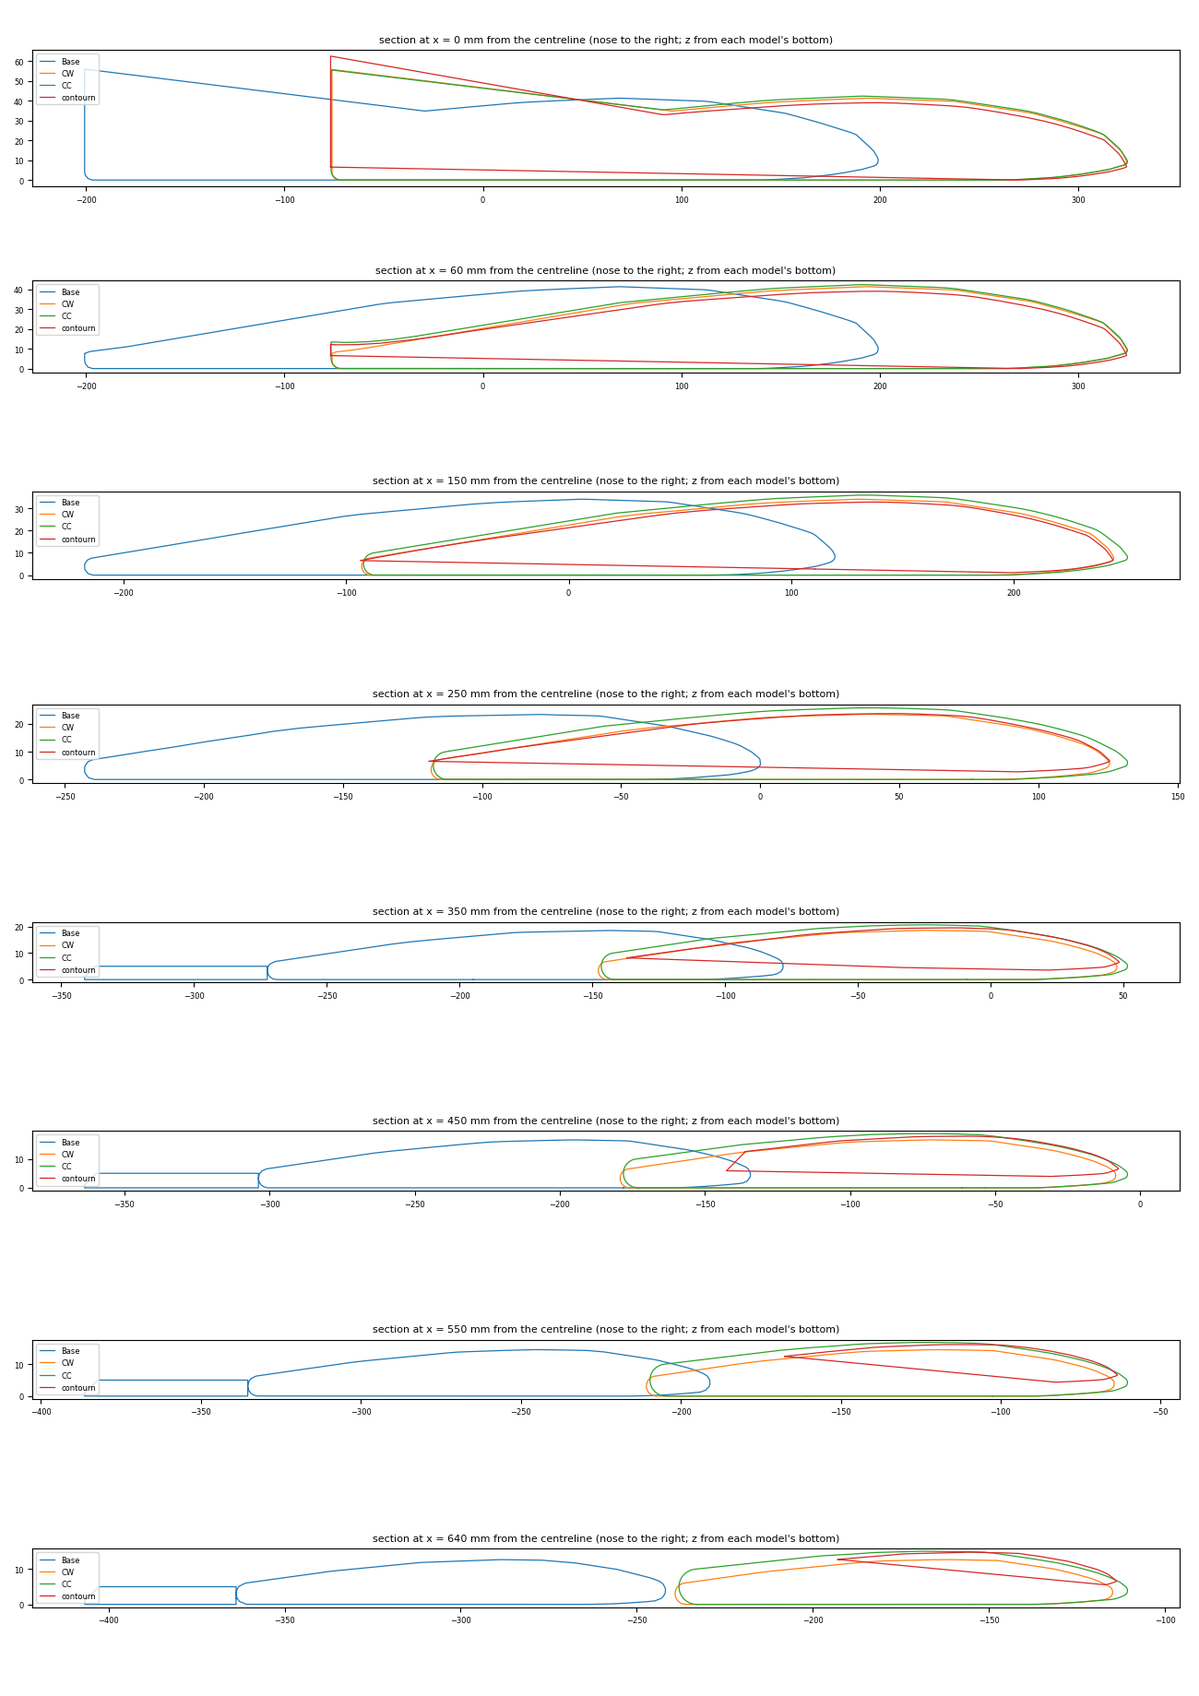
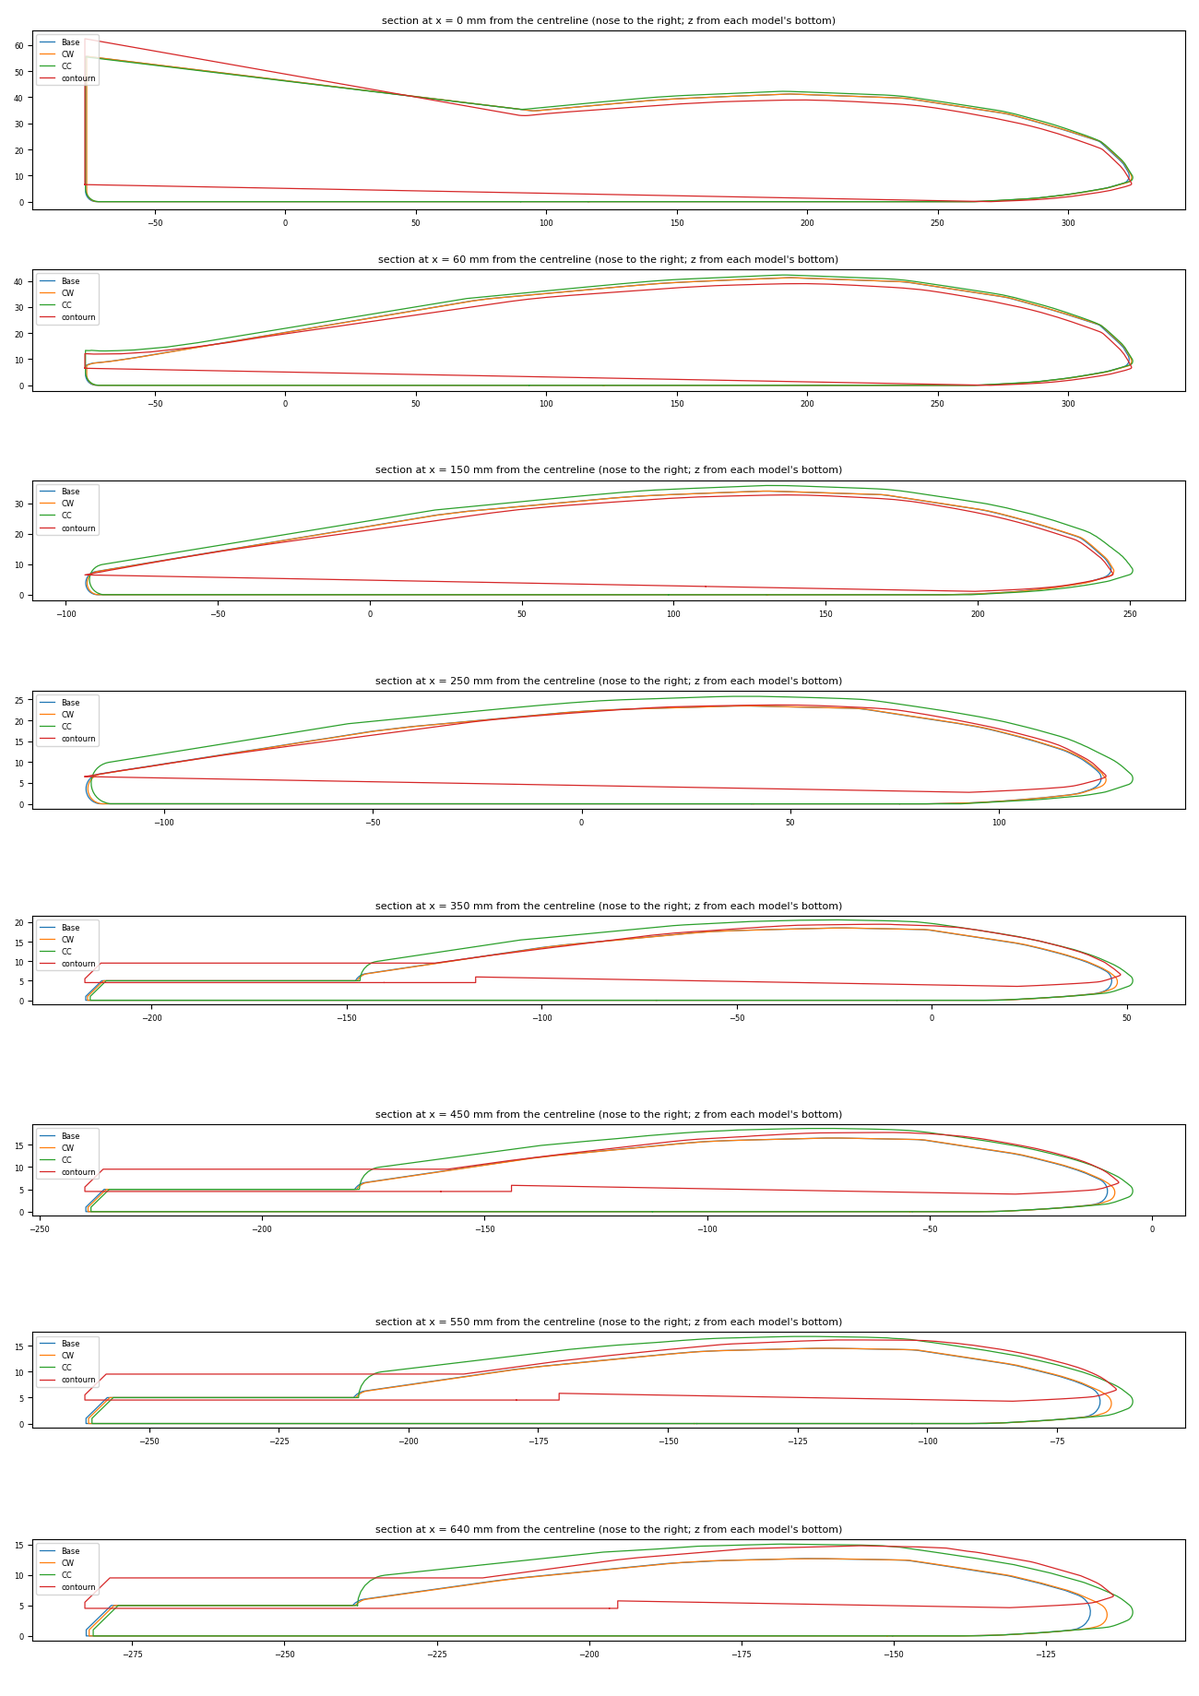
Se repararon y alinearon los STP y se generaron STL finos para CFD
- Elevones verificados: un solo cuerpo en los 9 modelos; los 9 STL limpios
  (contourn y Base re-exportados bien). STP de CC y contourn validos.
- Base, CW, RT y RT+CW: una cara invalida en la superficie superior interna
  del ala (no el aleron); reparada por script con fix() (<1.1 cm3).
- STP/fixed/: los 9 STP reparados y en el datum comun (origen en la nariz,
  X hacia atras, Y envergadura, Z arriba, mm; CC centrados, sin el offset de 5 mm).
- STL/cfd/: STL finos y cerrados (0.02 mm, 290k-450k triangulos) para OpenFOAM.
- Nuevos scripts: step_check.py, step_fix_align.py, stl
- AERO_REPORT.md: secciones 4.7 y 4.8, Paso 1 actualizado; figuras regeneradas.
- Pendiente: winglet de RT+CW (87 mm) y datos de motor/

It covers everything uncommitted:
- analysis/AERO_REPORT.md
- the regenerated figures in analysis/figures/
- the 3 new scripts in analysis/scripts/
- STP/fixed/ and STL/cfd/

diff --git a/analysis/scripts/stl_close_holes.py b/analysis/scripts/stl_close_holes.py
@@ -1,0 +1,101 @@
+"""Close small holes in binary STLs (in place) by fan-filling each boundary loop.
+
+OpenCASCADE leaves a few sub-millimetre gaps where it tessellates the tiny fillet
+faces at the winglet root, so some files written by step_fix_align.py aren't
+watertight. Each open loop is filled with a fan of triangles around its centroid,
+oriented to match the surrounding surface.
+
+    python3 analysis/scripts/stl_close_holes.py STL/cfd/*.stl
+"""
+import sys
+from collections import Counter, defaultdict
+
+import numpy as np
+
+DTYPE = np.dtype([("n", "<f4", (3,)), ("v", "<f4", (3, 3)), ("a", "<u2")])
+
+
+def read(path):
+    data = open(path, "rb").read()
+    n = int(np.frombuffer(data, "<u4", 1, 80)[0])
+    tri = np.frombuffer(data, DTYPE, n, 84)
+    P, inv = np.unique(tri["v"].reshape(-1, 3), axis=0, return_inverse=True)
+    return P.astype(np.float64), inv.reshape(-1, 3)
+
+
+def write(path, P, F):
+    v = P[F]
+    nrm = np.cross(v[:, 1] - v[:, 0], v[:, 2] - v[:, 0])
+    nrm /= np.maximum(np.linalg.norm(nrm, axis=1, keepdims=True), 1e-30)
+    out = np.zeros(len(F), DTYPE)
+    out["n"], out["v"] = nrm, v
+    with open(path, "wb") as f:
+        f.write(b"Berkirk CFD surface, mm".ljust(80, b"\0"))
+        f.write(np.uint32(len(F)).tobytes())
+        f.write(out.tobytes())
+
+
+def directed_edges(F):
+    return np.concatenate([F[:, [0, 1]], F[:, [1, 2]], F[:, [2, 0]]])
+
+
+def check(F):
+    """Return (open edges, edges used >2 times, edges with the same direction twice)."""
+    E = directed_edges(F)
+    und = Counter(map(tuple, np.sort(E, axis=1)))
+    dirc = Counter(map(tuple, E))
+    return (sum(1 for c in und.values() if c == 1), sum(1 for c in und.values() if c > 2),
+            sum(1 for c in dirc.values() if c > 1))
+
+
+def volume(P, F):
+    v = P[F]
+    return np.einsum("ij,ij->i", v[:, 0], np.cross(v[:, 1], v[:, 2])).sum() / 6.0
+
+
+for path in sys.argv[1:]:
+    P, F = read(path)
+    E = directed_edges(F)
+    und = Counter(map(tuple, np.sort(E, axis=1)))
+    # boundary edges, kept in the direction their face uses them
+    nxt = defaultdict(list)
+    for a, b in E:
+        if und[(min(a, b), max(a, b))] == 1:
+            nxt[a].append(b)
+    if not nxt:
+        print(f"{path}: already closed, {len(F)} triangles")
+        continue
+    loops, used = [], set()
+    for start in list(nxt):
+        for b0 in nxt[start]:
+            if (start, b0) in used:
+                continue
+            loop, a, b = [start], start, b0
+            while True:
+                used.add((a, b))
+                if b == start:
+                    break
+                loop.append(b)
+                cand = [c for c in nxt[b] if (b, c) not in used]
+                if not cand:
+                    loop = None
+                    break
+                a, b = b, cand[0]
+            if loop:
+                loops.append(loop)
+    v0 = volume(P, F)
+    newP, newF = [P], [F]
+    nP = len(P)
+    for loop in loops:
+        c = P[loop].mean(axis=0)
+        newP.append(c[None])
+        ring = loop + [loop[0]]
+        # boundary edge a->b belongs to a face; the fill face must use b->a
+        newF.append(np.array([[ring[i + 1], ring[i], nP] for i in range(len(loop))]))
+        nP += 1
+    P2, F2 = np.vstack(newP), np.vstack(newF)
+    open_e, nonman, flipped = check(F2)
+    write(path, P2, F2)
+    print(f"{path}: {len(loops)} loops ({sum(map(len, loops))} edges) filled; "
+          f"open {open_e}, non-manifold {nonman}, flipped {flipped}; "
+          f"volume {v0 / 1e6:.4f} -> {volume(P2, F2) / 1e6:.4f} L; {len(F2)} triangles")

diff --git a/analysis/scripts/step_fix_align.py b/analysis/scripts/step_fix_align.py
@@ -1,0 +1,83 @@
+"""Repair, align and finely tessellate the STEP files in STP/ with FreeCAD (OpenCASCADE).
+
+For each STP/<model>.stp:
+  1. Repair it with shape.fix() if it is not a valid solid.
+  2. Move it to the common datum: origin at the nose (most forward point of the
+     symmetry plane, i.e. the root LE), X aft, Y along the span, Z up. The
+     symmetry plane is taken as the middle of the spanwise bounding box, which
+     also removes the 5 mm sideways offset of the CC models.
+  3. Write STP/fixed/<model>.stp (AP214, mm) and a fine binary STL for CFD,
+     STL/cfd/<model>.stl (mm, same datum).
+
+Inventor's exports use X = span, Y = forward, Z = up, so the rotation is +90 deg
+about Z: new X = -old Y, new Y = old X.
+
+Run (FreeCAD snap, which can only read and write under $HOME):
+    cp analysis/scripts/step_fix_align.py ~/snap/freecad/common/
+    freecad.cmd ~/snap/freecad/common/step_fix_align.py $PWD
+"""
+import glob
+import os
+import sys
+
+import FreeCAD as App
+import Mesh
+import MeshPart
+import Part
+
+LINEAR_DEFLECTION = 0.02            # mm, max chordal error of the CFD STL
+ANGULAR_DEFLECTION = 0.0873         # rad (5 deg) between neighbouring facets
+
+args = [a for a in sys.argv[1:] if os.path.isdir(a)]
+repo = args[-1] if args else os.getcwd()
+stp_out = os.path.join(repo, "STP", "fixed")
+stl_out = os.path.join(repo, "STL", "cfd")
+os.makedirs(stp_out, exist_ok=True)
+os.makedirs(stl_out, exist_ok=True)
+
+
+def nose_point(shape, x_sym):
+    """Most forward (max Y) point of the section at the symmetry plane."""
+    best = None
+    for edge in shape.slice(App.Vector(1, 0, 0), x_sym):
+        for p in edge.discretize(Deflection=0.005):
+            if best is None or p.y > best.y:
+                best = p
+    return best
+
+
+print("| Model | Valid as exported | Repaired | dV repair [cm³] | Span offset [mm] | Nose (old y, z) [mm] | "
+      "x aft [mm] | y span [mm] | z [mm] | Valid after | CFD STL triangles | STL solid / non-manifold / bad orientation | STL volume [L] |")
+print("|---|---|---|---|---|---|---|---|---|---|---|---|---|")
+for path in sorted(glob.glob(os.path.join(repo, "STP", "*.stp"))):
+    name = os.path.splitext(os.path.basename(path))[0]
+    shape = Part.Shape()
+    shape.read(path)
+    valid0 = shape.isValid()
+    dv = 0.0
+    if not valid0:
+        v0 = shape.Volume
+        shape.fix(1e-4, 1e-4, 1e-3)
+        dv = (shape.Volume - v0) / 1e3
+    solid = shape.Solids[0] if len(shape.Solids) == 1 else shape
+
+    bb = solid.BoundBox
+    x_sym = 0.5 * (bb.XMin + bb.XMax)
+    nose = nose_point(solid, x_sym)
+
+    aligned = solid.copy()
+    aligned.translate(App.Vector(-x_sym, -nose.y, -nose.z))
+    aligned.rotate(App.Vector(0, 0, 0), App.Vector(0, 0, 1), 90)
+    nb = aligned.BoundBox
+
+    aligned.exportStep(os.path.join(stp_out, name + ".stp"))
+    mesh = MeshPart.meshFromShape(Shape=aligned, LinearDeflection=LINEAR_DEFLECTION,
+                                  AngularDeflection=ANGULAR_DEFLECTION, Relative=False)
+    mesh.write(os.path.join(stl_out, name + ".stl"))
+
+    print(f"| {name} | {'yes' if valid0 else 'no'} | {'–' if valid0 else 'fix()'} | {dv:+.2f} | "
+          f"{x_sym:+.2f} | {nose.y:.2f}, {nose.z:.2f} | {nb.XMin:.1f} … {nb.XMax:.1f} | "
+          f"{nb.YMin:.1f} … {nb.YMax:.1f} | {nb.ZMin:.1f} … {nb.ZMax:.1f} | "
+          f"{'yes' if aligned.isValid() else '**no**'} | {mesh.CountFacets} | "
+          f"{mesh.isSolid()} / {mesh.hasNonManifolds()} / {mesh.countNonUniformOrientedFacets()} | "
+          f"{mesh.Volume / 1e6:.3f} |")

diff --git a/analysis/scripts/step_check.py b/analysis/scripts/step_check.py
@@ -1,0 +1,42 @@
+"""Check the STEP files in STP/ with FreeCAD (OpenCASCADE).
+
+For each file: solid count, validity (and validity after fix()), volume, area,
+tight bounding box and the root-LE / tail / bottom datum.
+
+Run (FreeCAD snap):
+    cp analysis/scripts/step_check.py ~/snap/freecad/common/
+    freecad.cmd ~/snap/freecad/common/step_check.py <repo>/STP
+The snap can only read files under $HOME, so pass the absolute STP path.
+"""
+import glob
+import os
+import sys
+
+import Part
+
+stp_dir = [a for a in sys.argv[1:] if a.endswith("STP") or os.path.isdir(a)]
+stp_dir = stp_dir[-1] if stp_dir else os.path.join(os.getcwd(), "STP")
+
+print("| File | Solids | Shells | Valid | Valid after fix() | Volume [L] | Area [dm²] | "
+      "x span [mm] | y nose / tail [mm] | z min / max [mm] |")
+print("|---|---|---|---|---|---|---|---|---|---|")
+for path in sorted(glob.glob(os.path.join(stp_dir, "*.stp"))):
+    name = os.path.splitext(os.path.basename(path))[0]
+    shape = Part.Shape()
+    shape.read(path)
+    valid = shape.isValid()
+    fixed = "–"
+    if not valid:
+        s2 = shape.copy()
+        s2.fix(1e-4, 1e-4, 1e-3)
+        fixed = "yes" if s2.isValid() else "**no**"
+    bb = shape.BoundBox
+    # tight bounding box (optimal)
+    try:
+        bb = shape.optimalBoundingBox()
+    except Exception:
+        pass
+    print(f"| {name} | {len(shape.Solids)} | {len(shape.Shells)} | "
+          f"{'yes' if valid else '**no**'} | {fixed} | {shape.Volume / 1e6:.2f} | "
+          f"{shape.Area / 1e4:.2f} | {bb.XMin:.1f} … {bb.XMax:.1f} | "
+          f"{bb.YMax:.1f} / {bb.YMin:.1f} | {bb.ZMin:.1f} / {bb.ZMax:.1f} |")

diff --git a/analysis/AERO_REPORT.md b/analysis/AERO_REPORT.md
@@ -3,9 +3,9 @@
 | | |
 |---|---|
 | Date | 2026-10-13, updated 2026-10-15 |
-| Status | Elevons added and STL + STEP files re-exported (commit `1deeefd`). New geometry checked on 2026-10-15 (§4.6). **No aerodynamic test has been run yet.** |
-| Next action | Designer: finish Step 1. Fix the elevon joint so the STEP solids are valid, re-export the `contourn` and Base STLs, decide on the RT+CW winglet, and give the motor and mass data. Claude: then Step 3. |
-| Re-run the measurements | `python3 analysis/scripts/stl_geometry.py` |
+| Status | Elevon joint fixed and all files re-exported (commit `1a596ae`), checked on 2026-10-15 (§4.7): one fused body per model, all 9 STLs clean, CC and `contourn` STEPs valid. Script fixes (§4.8): all 9 STEPs repaired and moved to the common datum in `STP/fixed/`, and watertight fine CFD STLs in `STL/cfd/`. **No aerodynamic test has been run yet.** |
+| Next action | Designer: decide on the RT+CW winglet and give the motor and mass data. Optional: repair the inboard upper-surface face of the 4 non-CC models in Inventor (§4.7). Claude: then Step 3, using `STP/fixed/` and `STL/cfd/`. |
+| Re-run the measurements | `python3 analysis/scripts/stl_geometry.py`; STEP check: copy `analysis/scripts/step_check.py` to `~/snap/freecad/common/` and run `freecad.cmd ~/snap/freecad/common/step_check.py $PWD/STP`. Rebuild `STP/fixed/` + `STL/cfd/`: same with `step_fix_align.py $PWD`, then `python3 analysis/scripts/stl_close_holes.py STL/cfd/*.stl` |
 
 ---
 
@@ -254,7 +254,7 @@ The STLs were measured with `analysis/scripts/stl_geometry.py`, which now also p
 | CC+RT+CW | 36.50 | 1346 | 4.96 | 292.4 | 283 | 192 / 265 | 79.17 | 7.46 | 95.3 |
 | contourn | 36.08 | 1336 | 4.95 | 291.0 | 281 | 194 / 267 | 78.55 | 5.72* | 95.3 |
 
-\* The `contourn` STL is faulty (see below). Its volume from the STEP file is 5.91 L.
+\* The `contourn` STL is faulty (see below). *Correction (§4.7): the 5.91 L once quoted from the STEP file came from OpenCASCADE's volume integration, which is off by 2–4% on these files; a fine tessellation of the STEP gives 5.79 L.*
 
 - Chord including the elevon: ≈ 229 mm at the kink and ≈ 160 mm at the tip (was 211 / 121 mm).
 - The original's flight-tested CG (260 mm behind the leading edge) is now **≈ 7 mm ahead of the 25% MAC point** (≈ 267 mm). That is plausible for a swept wing, whose neutral point lies aft of the 25% MAC. Step 3 will give the real margin.
@@ -303,6 +303,68 @@ The STLs were measured with `analysis/scripts/stl_geometry.py`, which now also p
 - **RT+CW winglets are still 87 mm** (and their tip extends ≈ 5 mm further aft in the STEP). The other 7 Siloute models have 95 mm.
 - **The tessellation is still coarse for CFD.** No `STL/cfd/` export yet; see Step 1.
 
+### 4.7 Elevon joint fix (commit `1a596ae`, checked 2026-10-15)
+
+Checked with `analysis/scripts/stl_geometry.py` and `analysis/scripts/step_check.py` (FreeCAD 1.1).
+
+**Elevon joint: fixed.**
+- In all 9 models the elevon is now fused into the wing: slices give one closed loop over the full chord, so the elevon table of the script shows "–" (not separable). The chords at the kink and tip, S, MAC and wetted area are unchanged from §4.6.
+
+**STLs: all 9 are clean.**
+
+| Model | Triangles | Open / non-manifold / flipped / degenerate | Facet angle p90 / p99 [deg] |
+|---|---|---|---|
+| Base | 19 464 (was 5 090) | 0 / 0 / 0 / 0 | 10.7 / 49.0 |
+| CW, RT, RT+CW | 19–21 k | 0 / 0 / 0 / 0 | ≈ 10.6 / 29–34 |
+| CC, CC+CW, CC+RT, CC+RT+CW | 33.5–35.6 k | 0 / 0 / 0 / 0 (were 13 / 26) | 8.9 / 15.2–15.5 |
+| contourn | 9 114 | 0 / 0 / 0 / 0 | 11.4 / 90.0 (flat TE cut, not a fault) |
+
+- **`contourn` STL fixed:** the outboard sections are now clean (chord 266 → 169 mm from x = 350 to 640 mm including the elevon, t/c ≈ 5.8%), and its volume (5.787 L) matches a fine tessellation of its STEP (5.788 L).
+- The tessellation is still the default one (max edge ≈ 480–530 mm); the finer `STL/cfd/` export is still needed for CFD.
+
+**STEP files: CC and `contourn` are valid; the 4 non-CC models have one bad face per side, not at the elevon.**
+
+| File | Valid in OpenCASCADE | Valid after `fix()` | Notes |
+|---|---|---|---|
+| CC, CC+CW, CC+RT, CC+RT+CW | **yes** (were invalid even after `fix()`) | – | |
+| contourn | yes | – | z min = −6.5 mm (its origin is not at the bottom) |
+| Base, CW, RT, RT+CW | no: self-intersecting wire, unorientable shape | yes (volume change ≤ 1.1 cm³, 0.02%) | |
+
+- **Where:** the same B-spline face on each side, the **inboard upper wing surface** between the centre body and the kink (span x = 82–284 mm, z = 7–32 mm, 191 cm²). It isn't the elevon, which starts at the kink. The 4 CC models build that region differently and don't have it. The fault was already there before the joint fix (same error in §4.6), hidden behind the elevon error.
+- **Impact:** low. OpenCASCADE's `fix()` repairs it with a negligible change, so Claude can repair the STEPs by script before Flow5/meshing. To fix it at the source, rebuild that loft or boundary patch in Inventor (e.g. check its rails for a twisted or self-crossing edge).
+- The strict BOP check also lists C0-continuity and curve-on-surface tolerance warnings in all files. These are normal for Inventor exports and don't make the solid invalid.
+- **Volume:** OpenCASCADE's `shape.Volume` is off by 2–4% on these files. Use the STL volumes (§4.6), which match fine tessellations of the STEPs to within 0.1%.
+
+**Unchanged (still open)**
+- **Datum:** the STEPs have the same origins as in §4.6 (root LE at y ≈ 199–201 mm, CC models offset −5 mm in span x), and the STLs still have the old origins (nose y = 323–326 mm, bottom z = 0 / 10 / 12 mm).
+- **RT+CW winglet: still 87.1 mm** (the others are 95.2–95.3 mm).
+
+### 4.8 Fixes done by script (2026-10-15)
+
+Two scripts turn the designer's STEP files into analysis-ready geometry, without touching `STP/*.stp` or `STL/*.stl`:
+
+1. `analysis/scripts/step_fix_align.py` (FreeCAD). For each `STP/<model>.stp` it:
+   - repairs the solid with OpenCASCADE `fix()` if it is invalid (Base, CW, RT, RT+CW; volume change ≤ +1.1 cm³);
+   - moves it to the **common datum**: origin at the nose (the most forward point of the symmetry plane = root LE), **X aft, Y along the span, Z up**, all in mm. The symmetry plane is the middle of the spanwise bounding box, which removes the 5 mm offset of the CC models;
+   - writes `STP/fixed/<model>.stp` (valid solid) and a fine binary STL `STL/cfd/<model>.stl` (chordal error 0.02 mm, 5° between neighbouring facets).
+2. `analysis/scripts/stl_close_holes.py` closes the few sub-millimetre gaps that OpenCASCADE leaves at the small fillet faces where the winglet meets the trailing edge (Base, RT: 5 loops, 104 edges; RT+CW: 2 loops, 30 edges). It fills each loop with a fan of triangles, in place.
+
+**Result**
+
+| Model | Repaired | Span shift [mm] | Nose before (y, z) [mm] | x [mm] | y [mm] | z [mm] | CFD STL triangles | Size [MB] |
+|---|---|---|---|---|---|---|---|---|
+| Base | fix() | 0 | 199.2, 9.8 | 0 … 648.1 | ±668.0 | −9.8 … 85.4 | 289 806 | 14.5 |
+| CW | fix() | 0 | 199.7, 9.4 | 0 … 649.5 | ±668.0 | −9.4 … 85.9 | 450 994 | 22.5 |
+| RT | fix() | 0 | 199.2, 9.8 | 0 … 648.1 | ±668.0 | −9.8 … 85.4 | 287 896 | 14.4 |
+| RT+CW | fix() | 0 | 199.2, 9.8 | 0 … 653.4 | ±668.0 | −9.8 … 77.3 | 316 626 | 15.8 |
+| CC (all 4) | – | +5.0 | 200.6, 9.2 | 0 … 649.5–650.4 | ±673.0 | −9.2 … 86.1 | 439–453 k | 22.0–22.7 |
+| contourn | – | 0 | 200.4, 0.3 | 0 … 648.9 | ±668.0 | −6.8 … 93.1 | 305 384 | 15.3 |
+
+- All 9 `STP/fixed/` solids are valid. All 9 `STL/cfd/` files are closed, manifold and consistently oriented, and their volumes are within 0.2% of the designer's STLs.
+- **Note:** the nose sits 6–10 mm above the lowest point of the wing, so the bottom is at z ≈ −6.8 to −9.8 mm in the new datum.
+- `stl_geometry.py` still reads the designer's `STL/*.stl`, which use the old axes, so its tables stay comparable with §4.2–4.7.
+- **Not fixable by script:** the RT+CW winglet height (87 vs 95 mm) is a design change and must be done in Inventor. A per-part split of the CFD STL (body, wings, winglets, elevons) also needs Inventor, or can be done later by cutting the mesh with planes.
+
 ---
 
 ## 5. Step-by-step plan
@@ -341,13 +403,14 @@ Decisions of 2026-10-14 (selection phase only):
 Checklist:
 - [ ] **Winglets / ChangedWings:** confirm or fix the RT+CW winglet height (87 vs 95 mm), so each change is identical in every combination. *Still 87 mm on 2026-10-15.*
 - [x] **Elevons added to all 9 models** (2026-10-15, commit `1deeefd`): 5 mm plate, ≈ 72 → 42 mm chord, kink to tip, 4.15 dm² per pair (§4.6).
-  - [ ] **Fix the joint:** the flat elevon touches the rounded trailing edge only along a line, so the STEP solid is invalid. Overlap 2–3 mm and *Join* (or match the trailing-edge shape), then re-export (§4.6).
-- [ ] **Common datum:** root LE = (0, 0, 0) in all models.
+  - [x] **Fix the joint** (2026-10-15, commit `1a596ae`): elevon overlapped and joined; one fused body in all 9 (§4.7).
+  - [ ] *Optional:* repair the invalid inboard upper-surface face of Base, CW, RT, RT+CW (not the elevon; `fix()` repairs it by script, §4.7).
+- [x] **Common datum:** root LE = (0, 0, 0) in all models. *Done by script on 2026-10-15 for the analysis files (`STP/fixed/`, `STL/cfd/`; X aft, Y span, Z up; §4.8). The Inventor parts still have their own origins.*
   - *2026-10-15:* the STEP files are nearly common (root LE at y ≈ 199–201 mm, bottom z = 0, CC models offset 5 mm sideways), but the STLs (except Base) still use the old origins.
   - Re-export the STLs after setting the origin, so each STL matches its STEP. Fallback: Claude aligns them by script.
-- [x] **STEP export** (AP214) of every model into `STP/` (2026-10-15). `.gitattributes` routes `.stp` to Git LFS. *Re-export after the elevon joint fix.*
-- [ ] **Re-export the `contourn` STL** (broken outer-panel tessellation; the STEP file is fine) and the **Base STL** (only 5 k triangles, with folded facets).
-- [ ] **Finer STL export for CFD** into `STL/cfd/`:
+- [x] **STEP export** (AP214) of every model into `STP/` (2026-10-15). `.gitattributes` routes `.stp` to Git LFS. Re-exported after the joint fix (commit `1a596ae`).
+- [x] **Re-export the `contourn` and Base STLs** (2026-10-15, commit `1a596ae`): both clean now (§4.7).
+- [x] **Finer STL export for CFD** into `STL/cfd/`: *done by script from the STEP files on 2026-10-15 (§4.8). The Inventor instructions below are kept in case a per-part export is wanted.*
   - Binary format, units mm or m.
   - In the STL export *Options*, choose Resolution = Custom, with Normal Deviation ≈ 2–5°, and Surface Deviation and Max Edge Length small enough that triangles are ≲ 5–10 mm.
   - Ideally export separate STLs per part (centre body + cowl, wings, winglets, elevons) to get a force breakdown in CFD.
@@ -418,7 +481,7 @@ Optional GUI for OpenFOAM: FreeCAD (already installed as a snap) with the CfdOF 
 **Effort:** ~2–4 days to set up and validate, then ~1–2 h per run on this laptop (12 threads, 14 GB RAM).
 
 Preprocessing (Claude can script this):
-- [ ] Convert the Step 1 STLs to metres and rotate them to CFD axes (x along the flow from nose to tail, z up, y along the span). Put all models on the common datum.
+- [ ] Convert the Step 1 STLs to metres and rotate them to CFD axes (x along the flow from nose to tail, z up, y along the span). Put all models on the common datum. *Axes and datum done in `STL/cfd/` (§4.8); still in mm, so scale by 0.001 (e.g. `surfaceConvert -scale 0.001`).*
 - [ ] Use a half model with a symmetry plane at the centreline. This is valid for symmetric flight only.
 - [ ] Use the same moment reference point for all models: the CG chosen in Step 3.
 - [ ] Reference area and length: S and MAC **with elevons**. For a half model use S/2.
